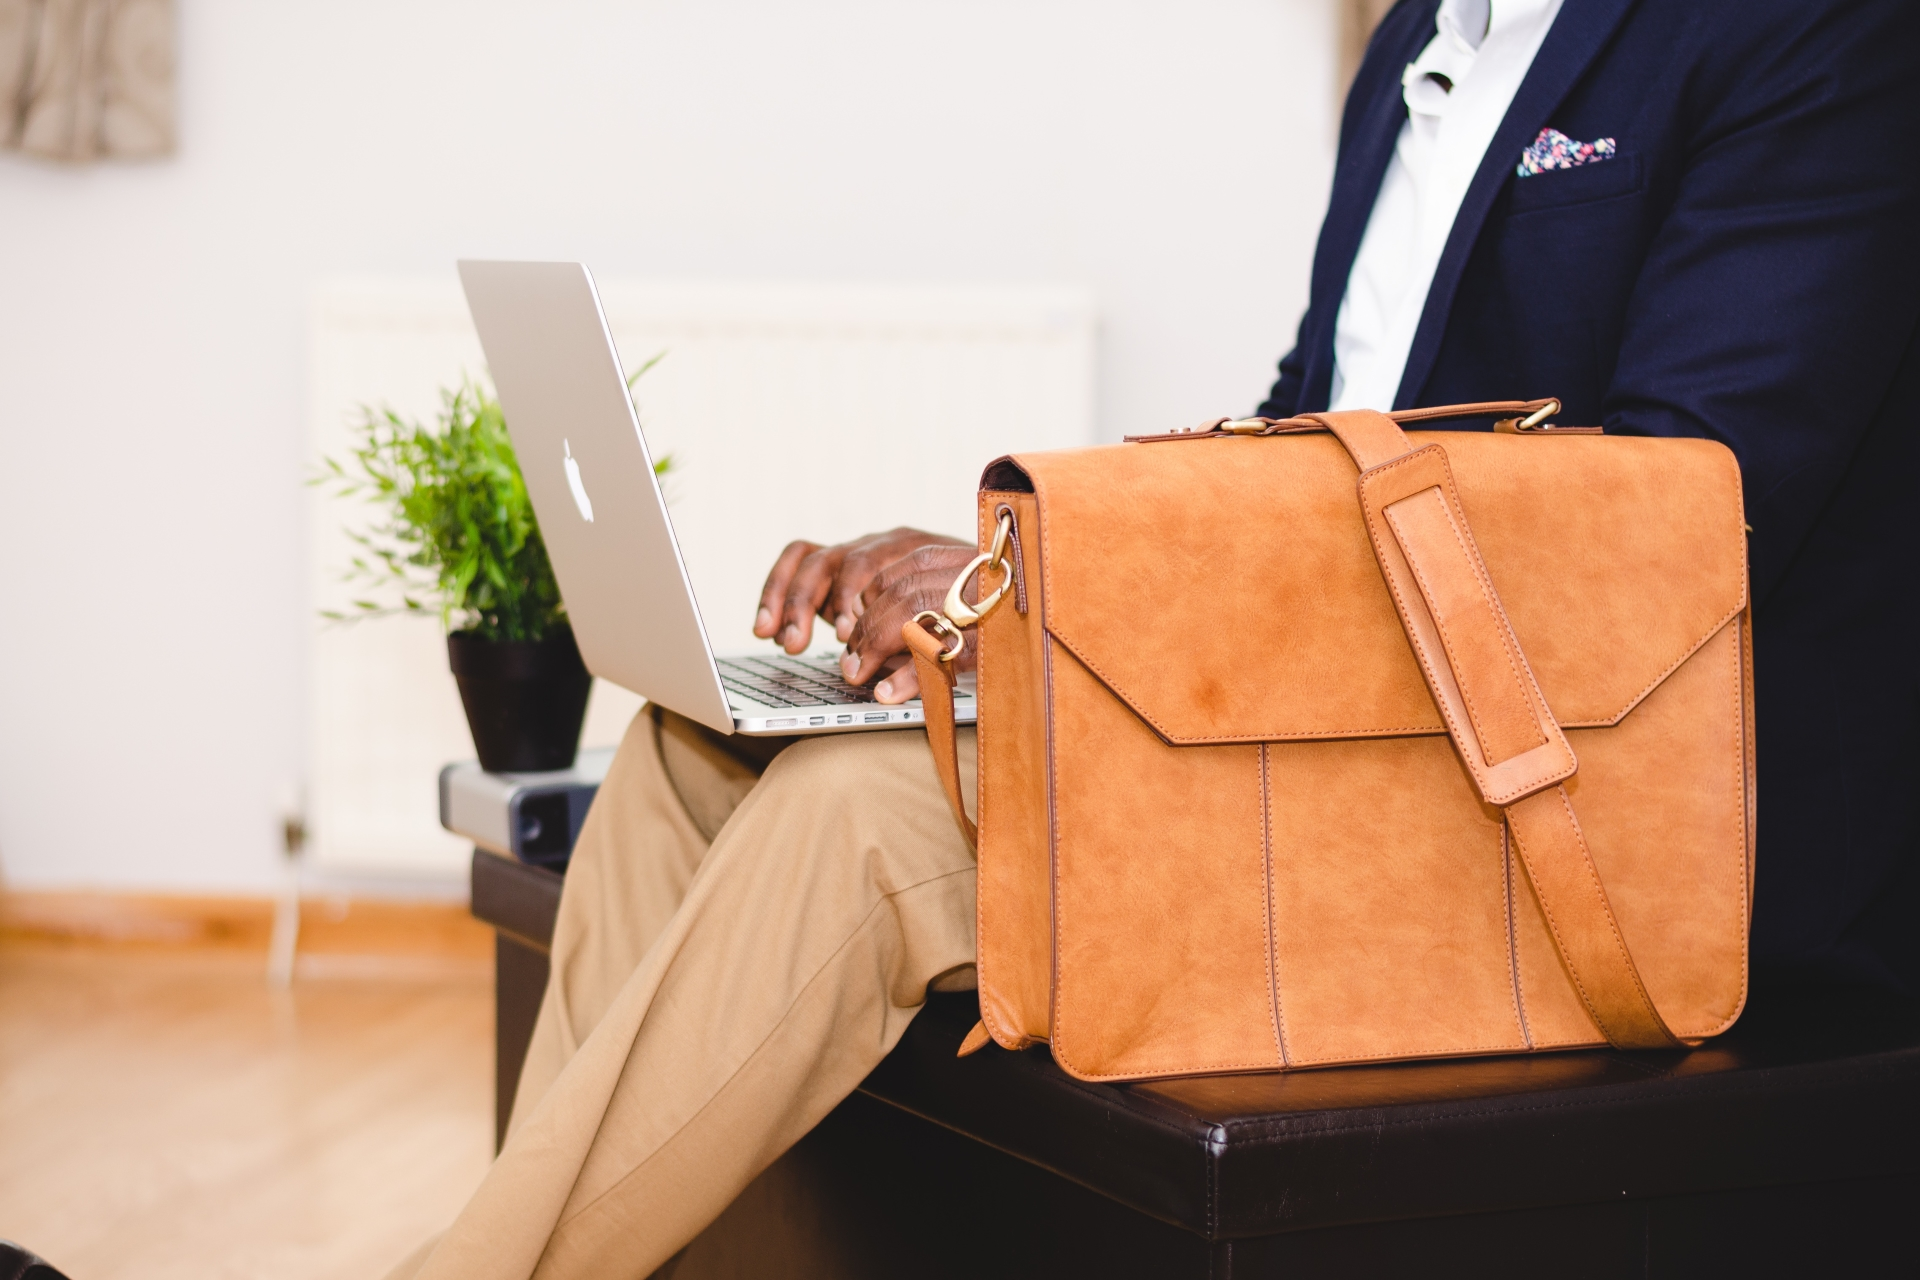
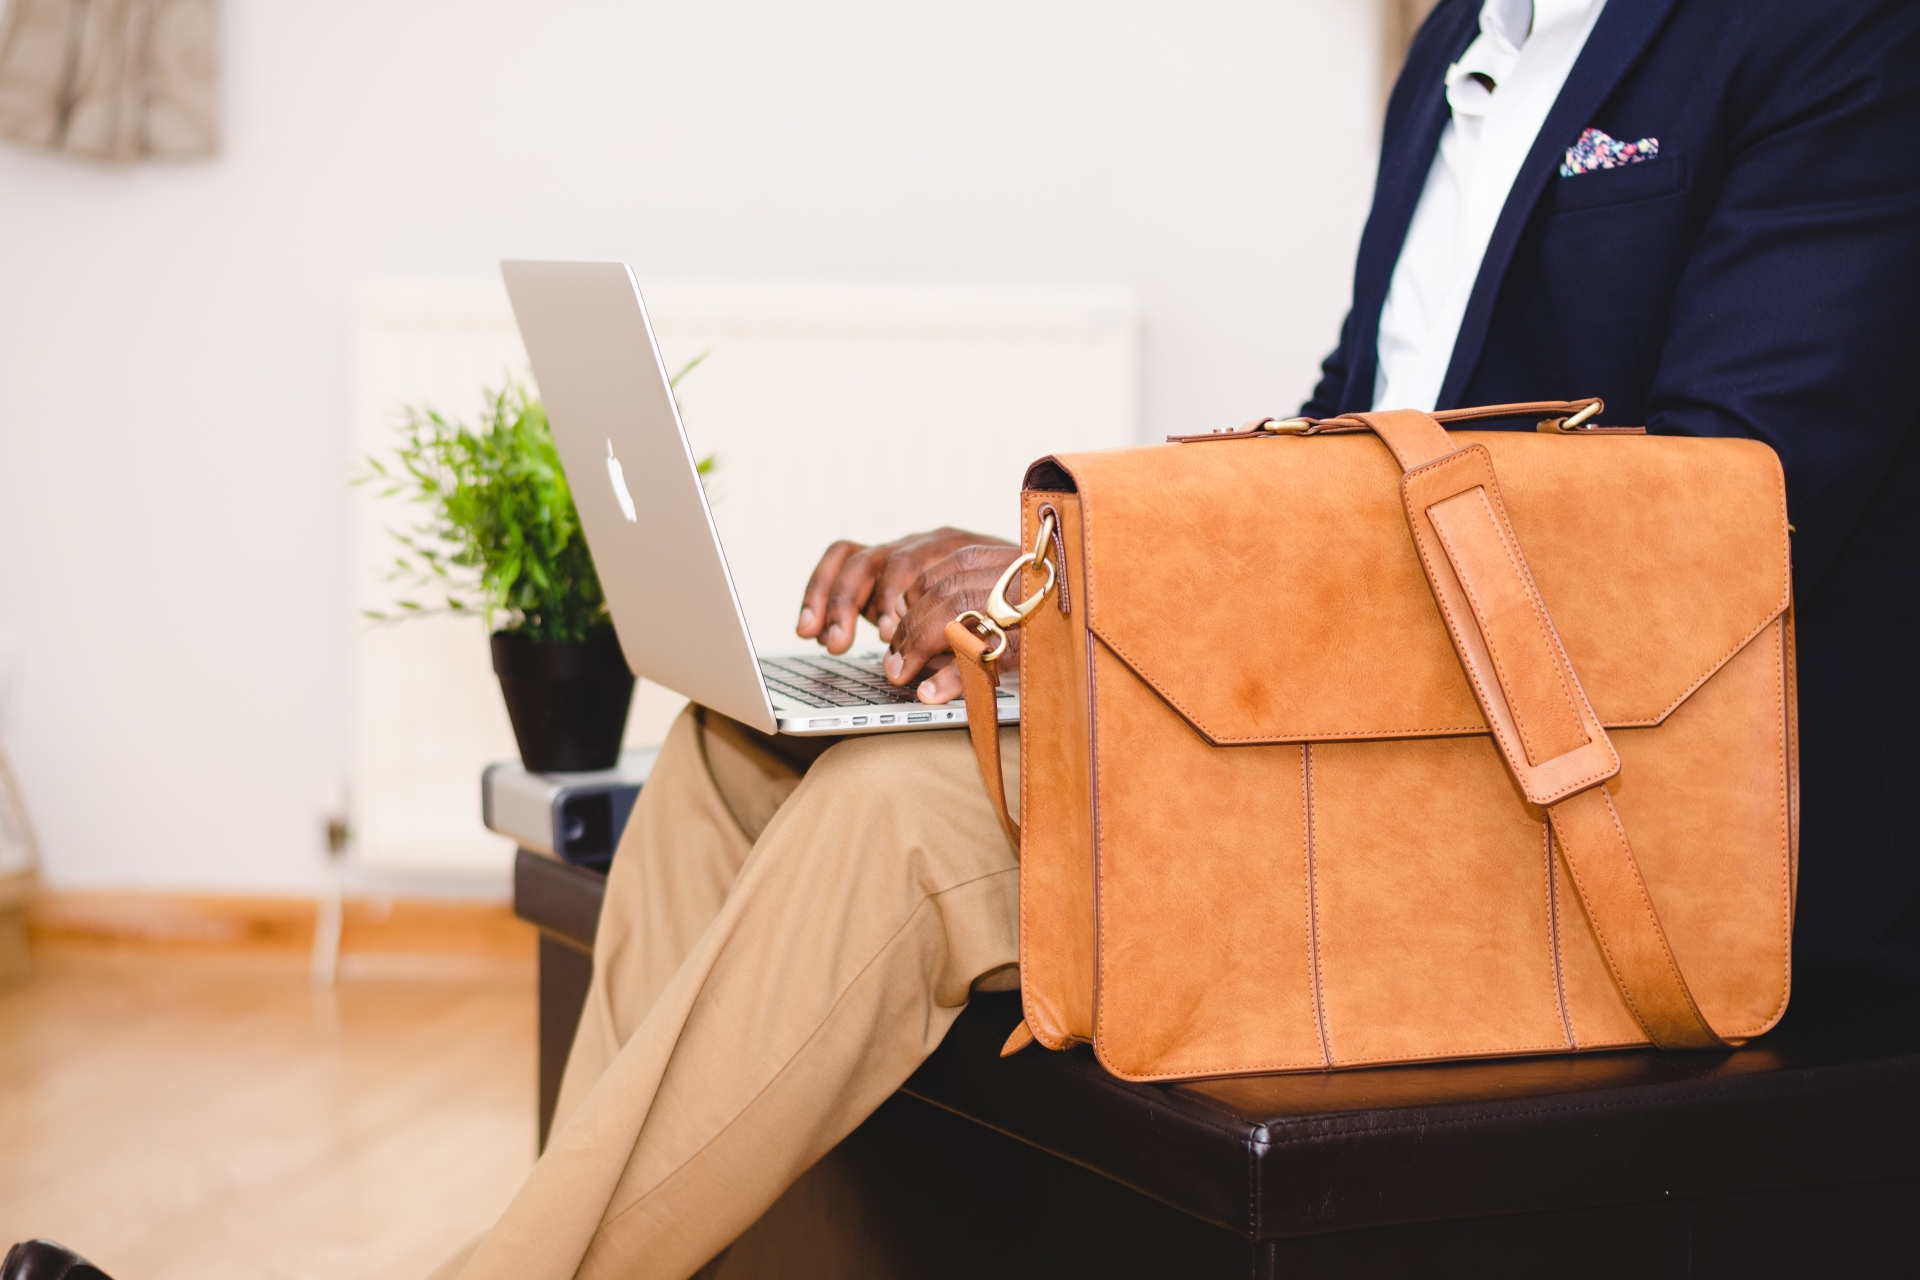
Photo updates and nav changes
Updated photos for landing and about pages. Added baseline jpegs for
display on mobile. Removed contact form (because of bugs) and press page
(because of incompleteness)

diff --git a/contact.html b/contact.html
@@ -39,9 +39,9 @@
 				--><li class="nav-item">
 					<a class="nav-link" href="faq/index.html" target="_blank"> FAQ </a>
 				</li><!--
-				--><li class="nav-item">
+				--><!--<li class="nav-item">
 					<a class="nav-link" href="press.html"> Press </a>
-				</li><!--
+				</li>--><!--
 				--><li class="nav-item">
 					<a class="nav-link active" href="contact.html"> Contact Us </a>
 				</li>
@@ -56,7 +56,7 @@
 						<img class="header-logo" src="img/logo/logo.svg"/>
 						<p class="header-subtitle u-line"> Get in touch </p>
 						<p id="contact-header-text" class="header-text">
-							Drop us a mail or holler at us on social media. We&#700;d love to hear from you! We&#700;ve also included our FAQs here, which might be useful to you.
+							Drop us a mail or holler at us on social media. We&#700;d love to hear from you! If you have any questions about Kalido, or if you are having a Kalido-related problem, we might have the answer for you in our FAQ&#700;s.
 						</p>
 					</div>	
 				</div>
@@ -67,7 +67,7 @@
 					<div class="contact-card">
 						<p class="card-heading u-white"> Let's talk </p>
 						<p class="card-text">
-							Questions, comments, or suggestions? Mail us, or fill in the contact form below, and one of our friendly team will get back to you as soon as possible.
+							Questions, comments, or suggestions? Drop us a mail at support@kalido.me, and one of our friendly team members will get back to you as soon as possible.
 						</p>
 						<a class="button card-button" href="mailto:info@kalido.me" target="_blank"> Email </a>
 						<!--<div id="contact-social">
@@ -96,14 +96,14 @@
 					<div class="contact-card">
 						<p class="card-heading u-white"> Need help? </p>
 						<p class="card-text">
-							Here&#700;s where you&#700;ll find answers to all your pressing questions about general usage, security, privacy, and everything else.
+							Here&#700;s where you&#700;ll find answers to all your pressing questions about general usage, security, privacy, and just about everything else you need to know.
 						</p>
-						<a class="button card-button" href="faq/index.html" target="_blank"> FAQ </a>
+						<a class="button card-button" href="faq/index.html" target="_blank"> FAQ&#700;s </a>
 					</div>
 				</div>
 			</div>
 			<!-- Forms -->
-			<div id="form-container" class="contact-container">
+			<!--<div id="form-container" class="contact-container">
 				<div class="overlay">
 					<div id="form-inner">
 						<p id="contact-heading" class="page-heading u-amber"> Contact Us </p>
@@ -132,7 +132,7 @@
 						</form>
 					</div>
 				</div>
-			</div>
+			</div>-->
 			<!-- Footer -->
 			<div id="footer">
 				<div id="footer-links">

diff --git a/css/contact.css b/css/contact.css
@@ -24,15 +24,15 @@ div.contact-card
     -ms-flex: 1;
     flex: 1;
 	margin: 0.5%;
-	padding: 5% 0 8% 0;
+	padding: 5% 0 5% 0;
 	background-color: #FFFFFF;
 	box-shadow: 0 1px 3px rgba(0,0,0,0.12), 0 1px 3px rgba(0,0,0,0.12);?
 }
 
 a.card-button
 {
-	margin: 8% 0 0 0;
-	padding: 4% 8% 4% 8%;
+	margin: 12% 0 0 0;
+	padding: 4% 12% 4% 12%;
 	color: #B0BEC5;
 	border-color: #B0BEC5;
 	border-radius: 5em;
@@ -46,7 +46,7 @@ a.card-button:hover
 
 div#contact-social
 {
-	margin: 8% 0 0 0;
+	margin: 12% 0 0 0;
 }
 
 /* Contact Form */
@@ -156,4 +156,97 @@ p.error
 .input-error
 {
 	border-color: #FF9100;
+}
+
+/*** Responsive ***/
+@media only screen
+and (max-width: 1200px)
+{
+	div.contact-card
+	{
+		padding: 10% 0 10% 0;
+	}
+
+	div#contact-social
+	{
+		margin: 8% 0 0 0;
+	}
+
+	div#contact-social > a.social-link
+	{
+		width: 10%;
+		margin: 0 2% 0 2%;
+	}
+
+	a.card-button
+	{
+		margin: 8% 0 0 0;
+	}
+}
+
+/*** Mobile Portrait ***/
+@media only screen
+and (max-device-width: 992px)
+and (orientation: portrait)
+{
+	/*** Header ***/
+	div.contact-container
+	{
+		background-image: url('../img/photo/mobile/contact.jpg');
+		background-attachment: scroll;
+	}
+
+	div.contact-card
+	{
+		padding: 20% 0 20% 0;
+	}
+
+	a.card-button
+	{
+		font-size: 10pt;
+		font-size: 3.7vw;
+		padding: 5% 15% 5% 15%;
+	}
+
+	div#contact-social > a.social-link
+	{
+		width: 15%;
+		margin: 0 2% 0 2%;
+	}
+}
+
+/*** Mobile Landscape ***/
+@media only screen
+and (max-device-width: 992px)
+and (orientation: landscape)
+{
+	/*** Header ***/
+	div.contact-container
+	{
+		background-image: url('../img/photo/mobile/contact.jpg');
+		background-attachment: scroll;
+	}
+
+	div.contact-card
+	{
+		padding: 10% 0 10% 0;
+	}
+
+	a.card-button
+	{
+		font-size: 10pt;
+		font-size: 2.8vw;
+		margin: 8% 0 0 0;
+	}
+
+	div#contact-social
+	{
+		margin: 8% 0 0 0;
+	}
+
+	div#contact-social > a.social-link
+	{
+		width: 10%;
+		margin: 0 2% 0 2%;
+	}
 }

diff --git a/css/secondary.css b/css/secondary.css
@@ -167,15 +167,13 @@ div#nav-container
 
 ul#nav
 {
-	width: 90%;
 	font-size: 12pt;
-	margin: 0 auto;
 }
 
 li.nav-item
 {
 	display: inline-block;
-	margin: 0 3% 0 3%;
+	margin: 0 4% 0 4%;
 }
 
 a.nav-link:link
@@ -612,6 +610,11 @@ a.social-link
 	margin-right: 2%;
 }
 
+a.social-link > img
+{
+	display: block;
+}
+
 /*** Animations ***/
 .animation-element
 {
@@ -1016,12 +1019,12 @@ and (orientation: portrait)
 	{
 		display: block;
 		margin: 0;
-		height: 9vh;
+		height: 12vh;
 	}
 
 	a.nav-link:link
 	{
-		line-height: 9vh;
+		line-height: 12vh;
 		padding: 0 0 0 5%;
 	}
 

diff --git a/about.html b/about.html
@@ -39,9 +39,9 @@
 				--><li class="nav-item">
 					<a class="nav-link" href="faq/index.html" target="_blank"> FAQ </a>
 				</li><!--
-				--><li class="nav-item">
+				--><!--<li class="nav-item">
 					<a class="nav-link" href="press.html"> Press </a>
-				</li><!--
+				</li>--><!--
 				--><li class="nav-item">
 					<a class="nav-link" href="contact.html"> Contact Us </a>
 				</li>

diff --git a/anyone.html b/anyone.html
@@ -38,9 +38,9 @@
 				--><li class="nav-item">
 					<a class="nav-link" href="faq/index.html" target="_blank"> FAQ </a>
 				</li><!--
-				--><li class="nav-item">
+				--><!--<li class="nav-item">
 					<a class="nav-link" href="press.html"> Press </a>
-				</li><!--
+				</li>--><!--
 				--><li class="nav-item">
 					<a class="nav-link" href="contact.html"> Contact Us </a>
 				</li>

diff --git a/clients.html b/clients.html
@@ -38,9 +38,9 @@
 				--><li class="nav-item">
 					<a class="nav-link" href="faq/index.html" target="_blank"> FAQ </a>
 				</li><!--
-				--><li class="nav-item">
+				--><!--<li class="nav-item">
 					<a class="nav-link" href="press.html"> Press </a>
-				</li><!--
+				</li>--><!--
 				--><li class="nav-item">
 					<a class="nav-link" href="contact.html"> Contact Us </a>
 				</li>

diff --git a/index.html b/index.html
@@ -39,9 +39,9 @@
 				--><li class="nav-item">
 					<a class="nav-link" href="faq/index.html" target="_blank"> FAQ </a>
 				</li><!--
-				--><li class="nav-item">
+				--><!--<li class="nav-item">
 					<a class="nav-link" href="press.html"> Press </a>
-				</li><!--
+				</li>--><!--
 				--><li class="nav-item">
 					<a class="nav-link" href="contact.html"> Contact Us </a>
 				</li>

diff --git a/professionals.html b/professionals.html
@@ -38,9 +38,9 @@
 				--><li class="nav-item">
 					<a class="nav-link" href="faq/index.html" target="_blank"> FAQ </a>
 				</li><!--
-				--><li class="nav-item">
+				--><!--<li class="nav-item">
 					<a class="nav-link" href="press.html"> Press </a>
-				</li><!--
+				</li>--><!--
 				--><li class="nav-item">
 					<a class="nav-link" href="contact.html"> Contact Us </a>
 				</li>
